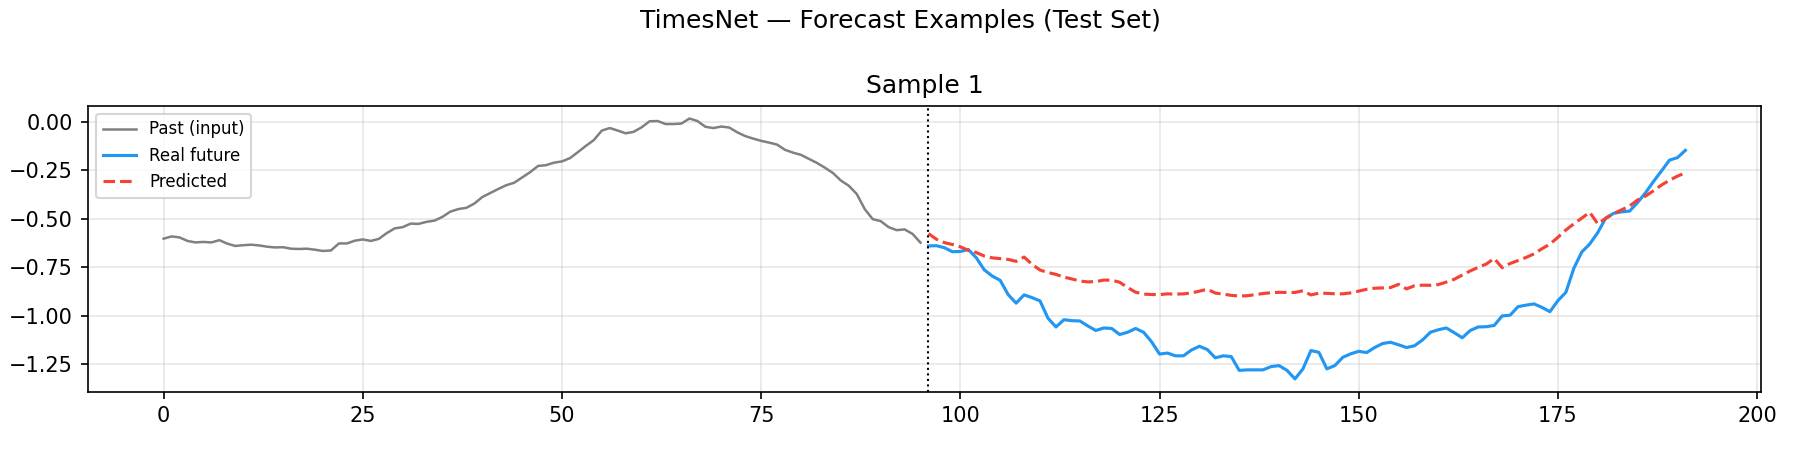
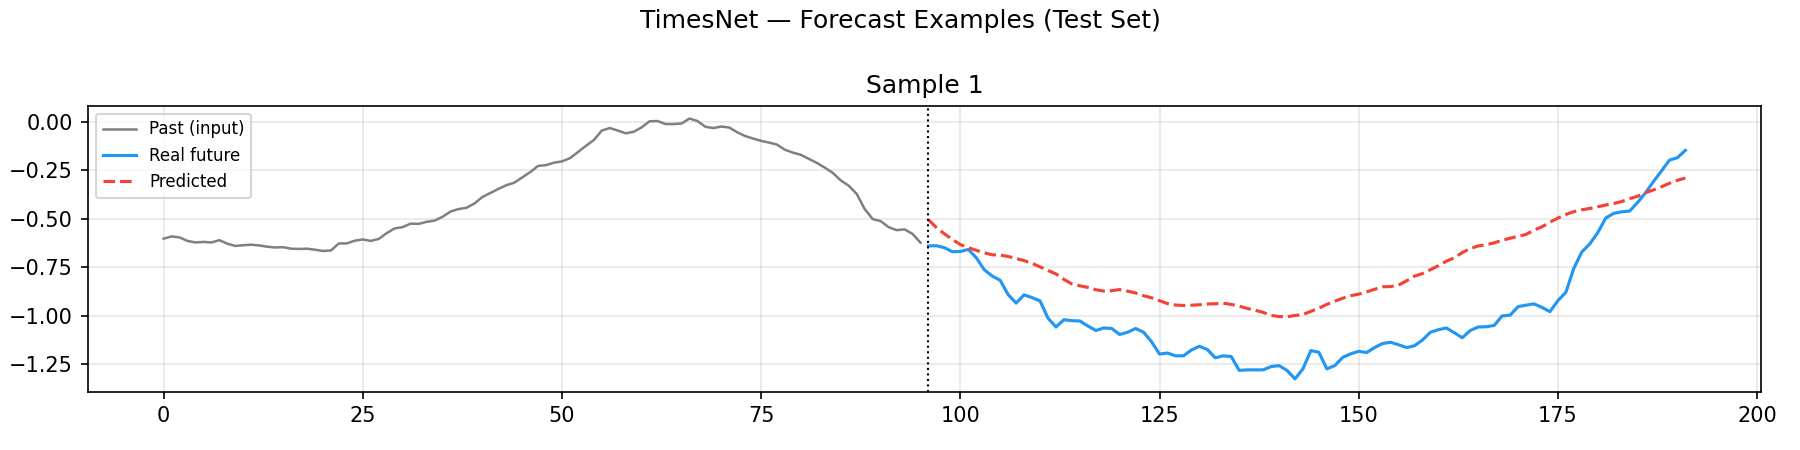
last RL

diff --git a/src/training/RL_trainers/trainer_last_v2.py b/src/training/RL_trainers/trainer_last_v2.py
@@ -400,7 +400,7 @@ class RLMaskTrainer:
             self.agent.train()
             stats = {k: [] for k in self.history}
 
-            for batch in self.train_loader:
+            for i, batch in enumerate(self.train_loader):
                 ep = run_episode_train(
                     batch=batch,
                     ae_arch=self.ae_arch,
@@ -425,6 +425,12 @@ class RLMaskTrainer:
                 stats["delta_mean"].append(rs["delta_mean"])
                 stats["success_rate"].append(rs["success"])
                 stats["n_valid"].append(ep["n_valid"])
+                
+                # Log progress every 20 batches
+                if (i + 1) % 20 == 0:
+                    current_reward = float(np.mean(stats["reward_total"])) if stats["reward_total"] else 0.0
+                    current_sr = float(np.mean(stats["success_rate"])) * 100 if stats["success_rate"] else 0.0
+                    print(f"  Epoch {epoch}/{self.cfg_rl.epochs} | Batch {i+1} | R={current_reward:.4f} | SR={current_sr:.1f}%")
 
                 if not use_rl:
                     continue
